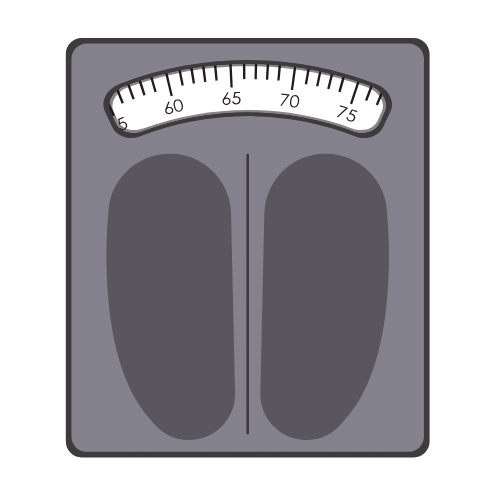
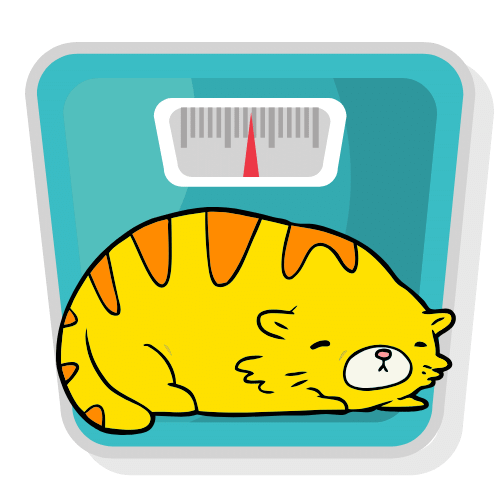
Style the calculator in mobile and desktop & change to min 1049px the medias querys

diff --git a/src/components/Calculator.css b/src/components/Calculator.css
@@ -5,7 +5,6 @@
     width: 18em;
     height: 10px;
     border-radius: 5px;
-    /* background: #00c2cb; */
     background-image: linear-gradient(135deg, #8dff47 0%,#fffa6c 50%, #ff4343 100%);
     border: 1px solid rgb(0, 0, 0);
     outline: none;
@@ -21,7 +20,6 @@
     opacity: 1;
 }
   
-
 .motiv {
     display: flex;
     align-items: center;
@@ -29,10 +27,14 @@
 }
 
 .buttonCalculator {
+    /* display: none; */
     font-family: 'Righteous', arial, sans-serif;
     font-size: large;
+    background-color: #ffcb05;
     width: 8em;
-    height: 3em;
+    height: 2em;
+    border-radius: 2em;
+    text-shadow: 2px 2px 2px #b5760a;
 }
 
 .calculator {
@@ -54,7 +56,7 @@
     flex-direction: column;
     align-items: center;
     position: relative;
-    height: 20em;
+    height: 17em;
     width: 14em;
     font-family: 'Righteous', arial, sans-serif;
     font-size: 1.4em;
@@ -69,6 +71,7 @@
     margin-top: 1em;
     width: 10em;
     height: 2em;
+    border-radius: 0.5em;
 }
 
 .goal {
@@ -77,9 +80,15 @@
     width: 350px;
     height: 50px;
     border-radius: 20px 100px / 120px;
-    color: rgb(10, 109, 194);
-    background-color: #b7e5e7;
-    text-shadow: 3px 3px 3px rgb(255, 230, 40);
+    color: #ffcb05;
+    background-color: #fffefe;
+    text-shadow: 3px 3px 3px rgb(20, 49, 92);
+}
+
+@media screen and (max-width: 1050px) {
+    .balance-image {
+        display: none;
+    }
 }
 
 @media screen and (min-width: 750px) {
@@ -101,5 +110,27 @@
         box-shadow: 0 8px 17px -8px #A3A5AE;
         background-color: #FFF;
         width: 400px;
+        height: 600px;
+    }
+
+    .calculator-form:hover {
+        transition: 1s;
+		box-shadow: 0 8px 16px 5px rgba(0, 0, 0, 0.3);
+    }
+
+    .balance-image {
+        width: 8em;
+        height: 8em
+    }
+
+    p.balance-image {
+        width: 12em;
+        margin: 0;
+        font-style: italic;
+        font-size: large;
+    }
+
+    .buttonCalculator{
+        display: none;
     }
 }

diff --git a/src/components/Calculator.js b/src/components/Calculator.js
@@ -1,6 +1,6 @@
 import React from 'react'
 import './Calculator.css'
-import balance from '../images/balance.png'
+import balance2 from '../images/balance2.png'
 
 class Calculator extends React.Component {
     state = {
@@ -51,15 +51,17 @@ class Calculator extends React.Component {
         return (
             <div className="calculator">
                 <form className='calculator-form'>
-                    <label>Please enter your weight :</label>
+                    <label>Please enter your weight:</label>
                     <input
                             type='number'
                             className="userWeight"
                             value={this.state.userWeight}
                             onChange={this.handleChange}
-                            placeholder="In Kg">
+                            placeholder="   In Kg">
                     </input>
                     <input type="button" value="Calculate" className="buttonCalculator" onClick={this.weightChange} />
+                        <p className="balance-image">Press the cat to calculate your goal</p>
+                        <img className="balance-image" src={balance2} alt='balance' onClick={this.weightChange}/>
                     <p>Current weight: {this.state.userWeight} kg</p>
                     <div className="motiv">
                         <label>Motivation level</label>
@@ -73,7 +75,6 @@ class Calculator extends React.Component {
                             max="100"
                         />
                     <p className="goal" value={this.state.weightToReach} onChange={this.weightChange} className="goal">Your goal : {this.state.weightToReach}</p>
-                    <img src={balance} alt='balance'/>
                     </div>
                 </form>
             </div>

diff --git a/src/components/NavbarDesktop.css b/src/components/NavbarDesktop.css
@@ -2,7 +2,7 @@
 @import url("https://fonts.googleapis.com/css?family=Gloria+Hallelujah|Indie+Flower&display=swap");
 
 /* For desktop NavBar */
-@media screen and (min-width: 1050px) {
+@media screen and (min-width: 1049px) {
 
 /* Add background color to the top navigation */
 .topnav {
@@ -36,7 +36,7 @@
 }
 
 /* A media query to get a responsive navbar for the desktop version */
-@media screen and (max-width: 1190px) and (min-width: 1050px) {
+@media screen and (max-width: 1190px) and (min-width: 1049px) {
   .topnav {
     display: flex;
     background-color: #00c2cb;
@@ -46,7 +46,7 @@
 }
 
 /* For Mobile and Tablet, this topnav is hidden */
-@media screen and (max-width: 1050px) {
+@media screen and (max-width: 1049px) {
     .topnav{
         display: none;
     }

diff --git a/src/components/Navbar.css b/src/components/Navbar.css
@@ -1,6 +1,6 @@
 
 /* Navbar for Mobile-first */
-@media screen and (max-width: 1050px) {
+@media screen and (max-width: 1049px) {
 
 /* Place the navbar stick at the bottom of the page and Icons center */
     .navbar-mobile {
@@ -45,7 +45,7 @@
 }
 
 /* Navbar for desktop */
-@media screen and (min-width: 1050px) {
+@media screen and (min-width: 1049px) {
     .navbar-mobile{
         display: none;
     }

diff --git a/src/components/NavbarDesktop.js b/src/components/NavbarDesktop.js
@@ -11,7 +11,7 @@ function NavbarDesktop (){
           </div>
           <div>
             <Link to="#beers">Beers</Link>
-            <Link to="/Calculator">Tips</Link>
+            <Link to="/Calculator">Calculator</Link>
           </div>
       </div>
     )

diff --git a/src/App.css b/src/App.css
@@ -35,7 +35,7 @@ body {
   color: #ffcb05;
 }
 
-@media screen and (min-width: 1050px) {
+@media screen and (min-width: 1049px) {
   .container-body {
     display: flex;
     flex-direction: row;

diff --git a/src/components/Header.css b/src/components/Header.css
@@ -41,7 +41,7 @@ header {
     z-index: 1;
 }
 
-@media (min-width: 1050px) {
+@media (min-width: 1049px) {
     header {
         height: 10rem;
     }
